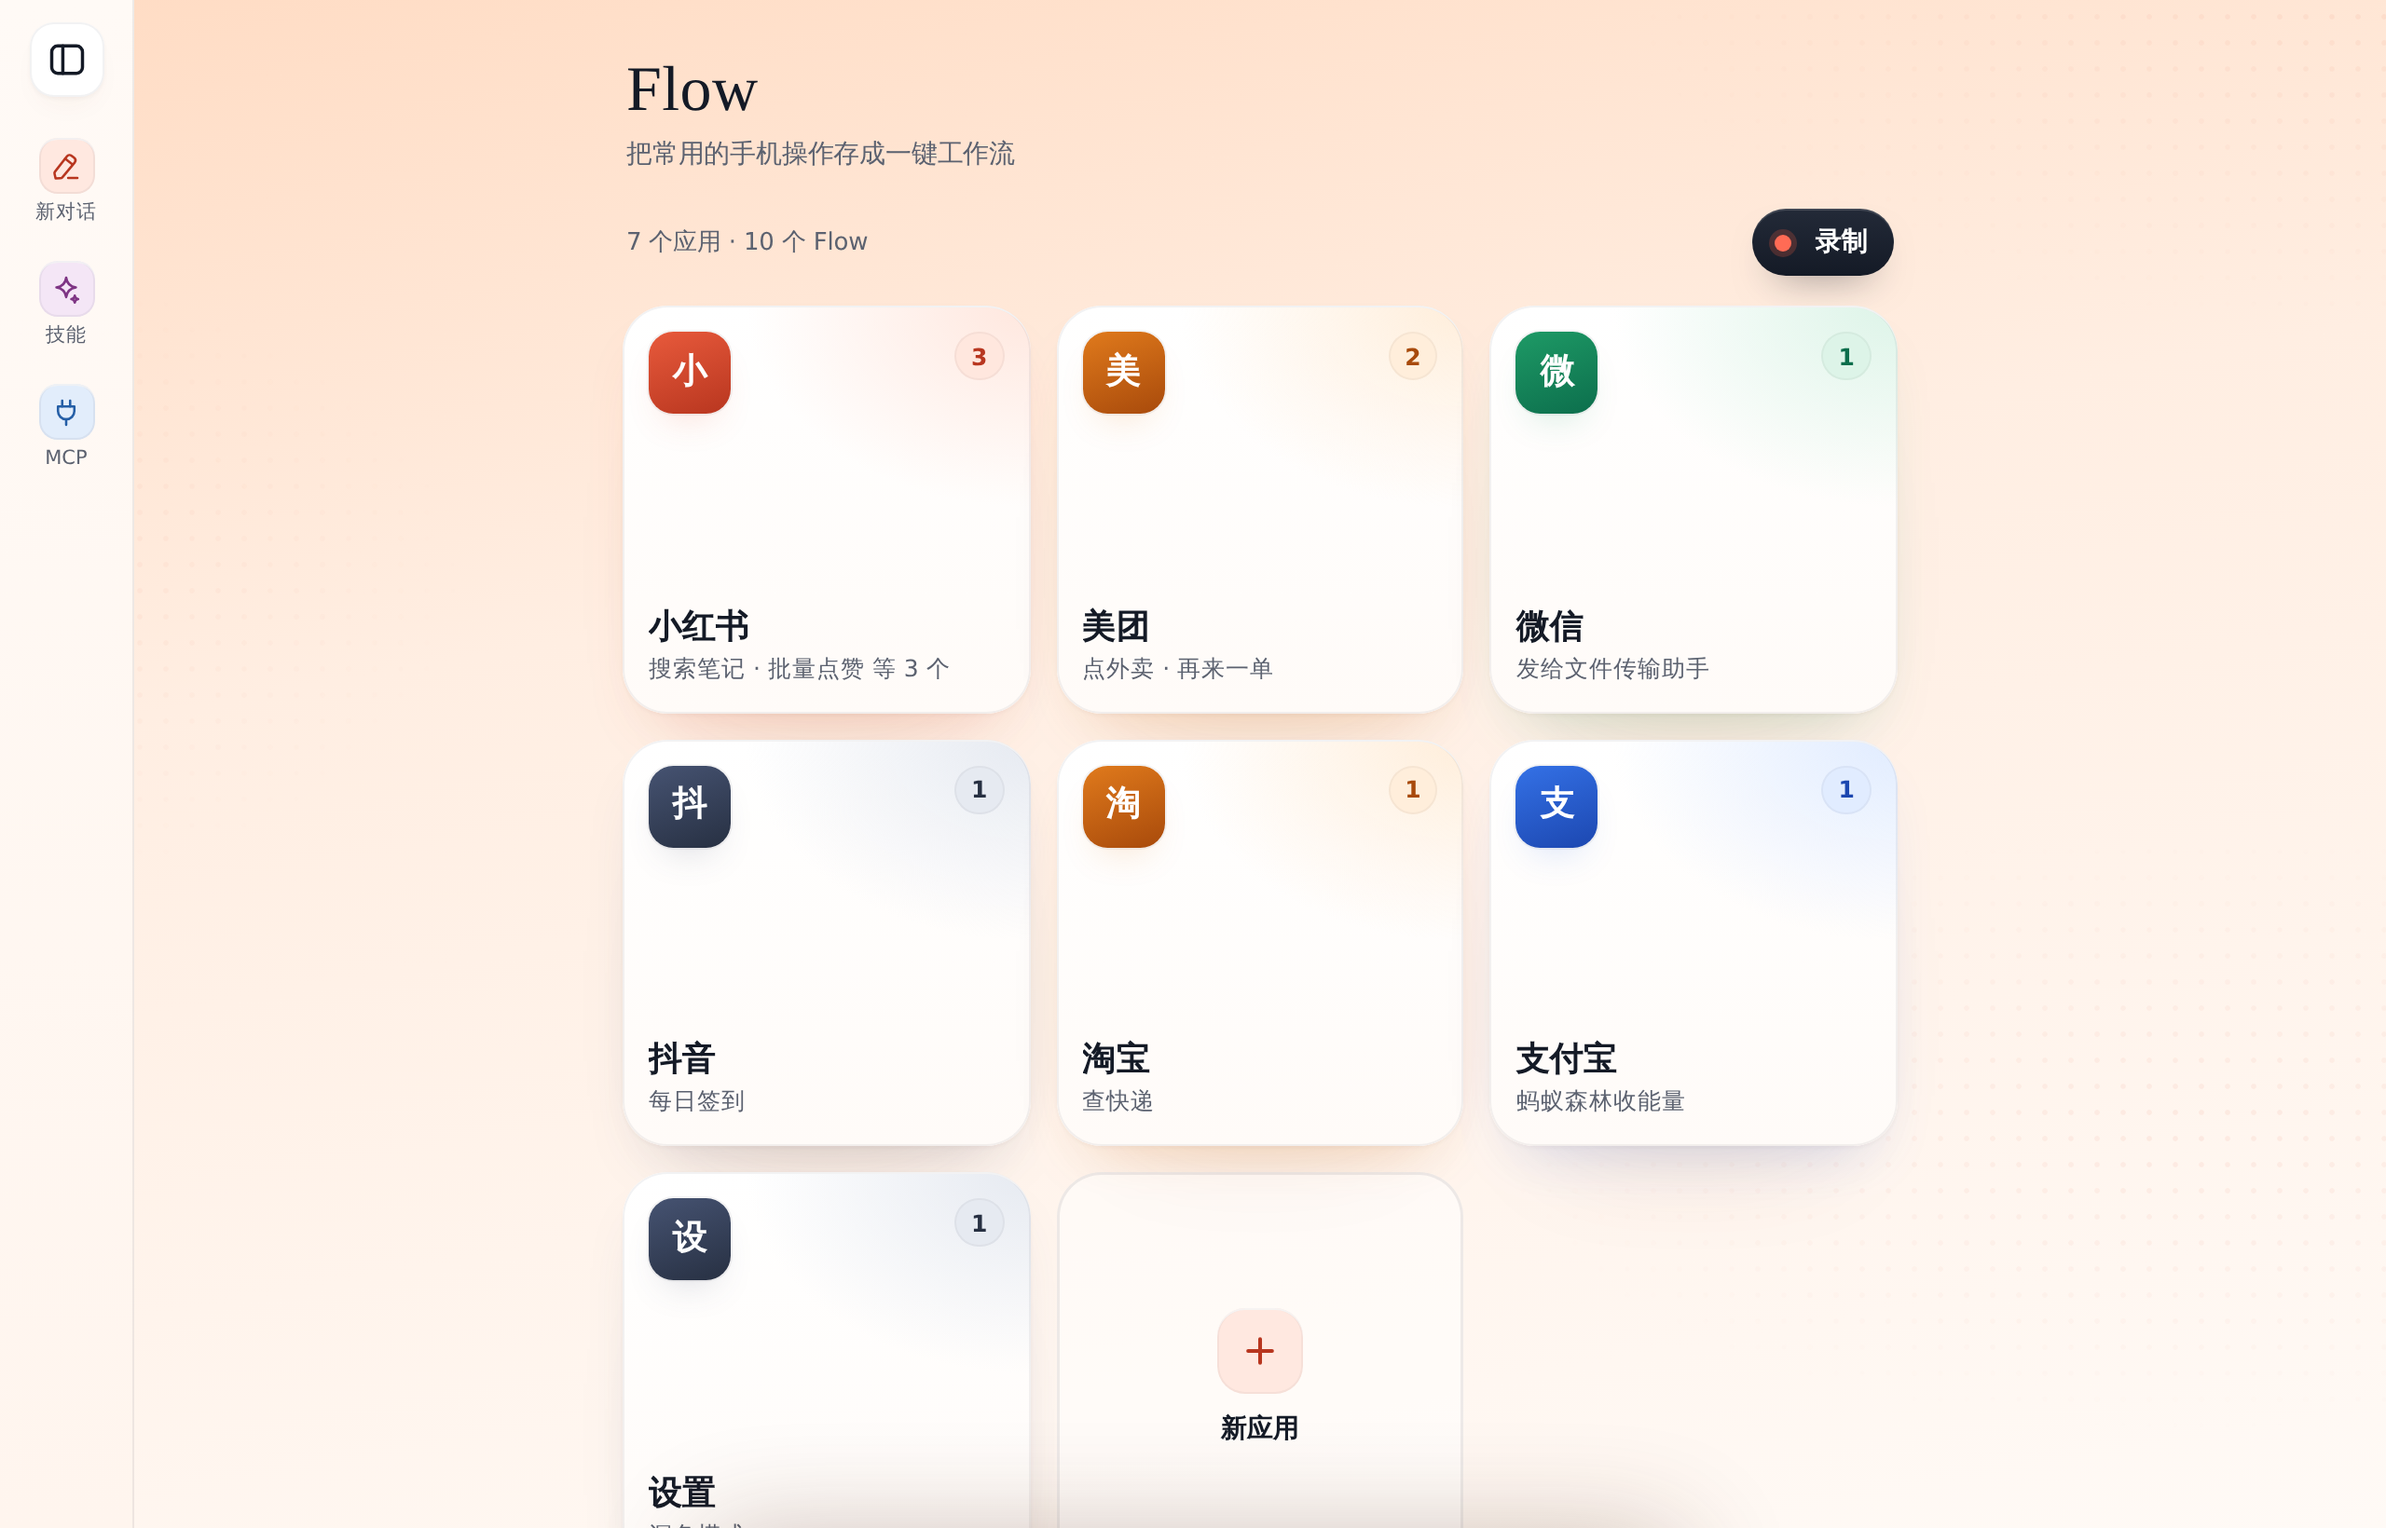
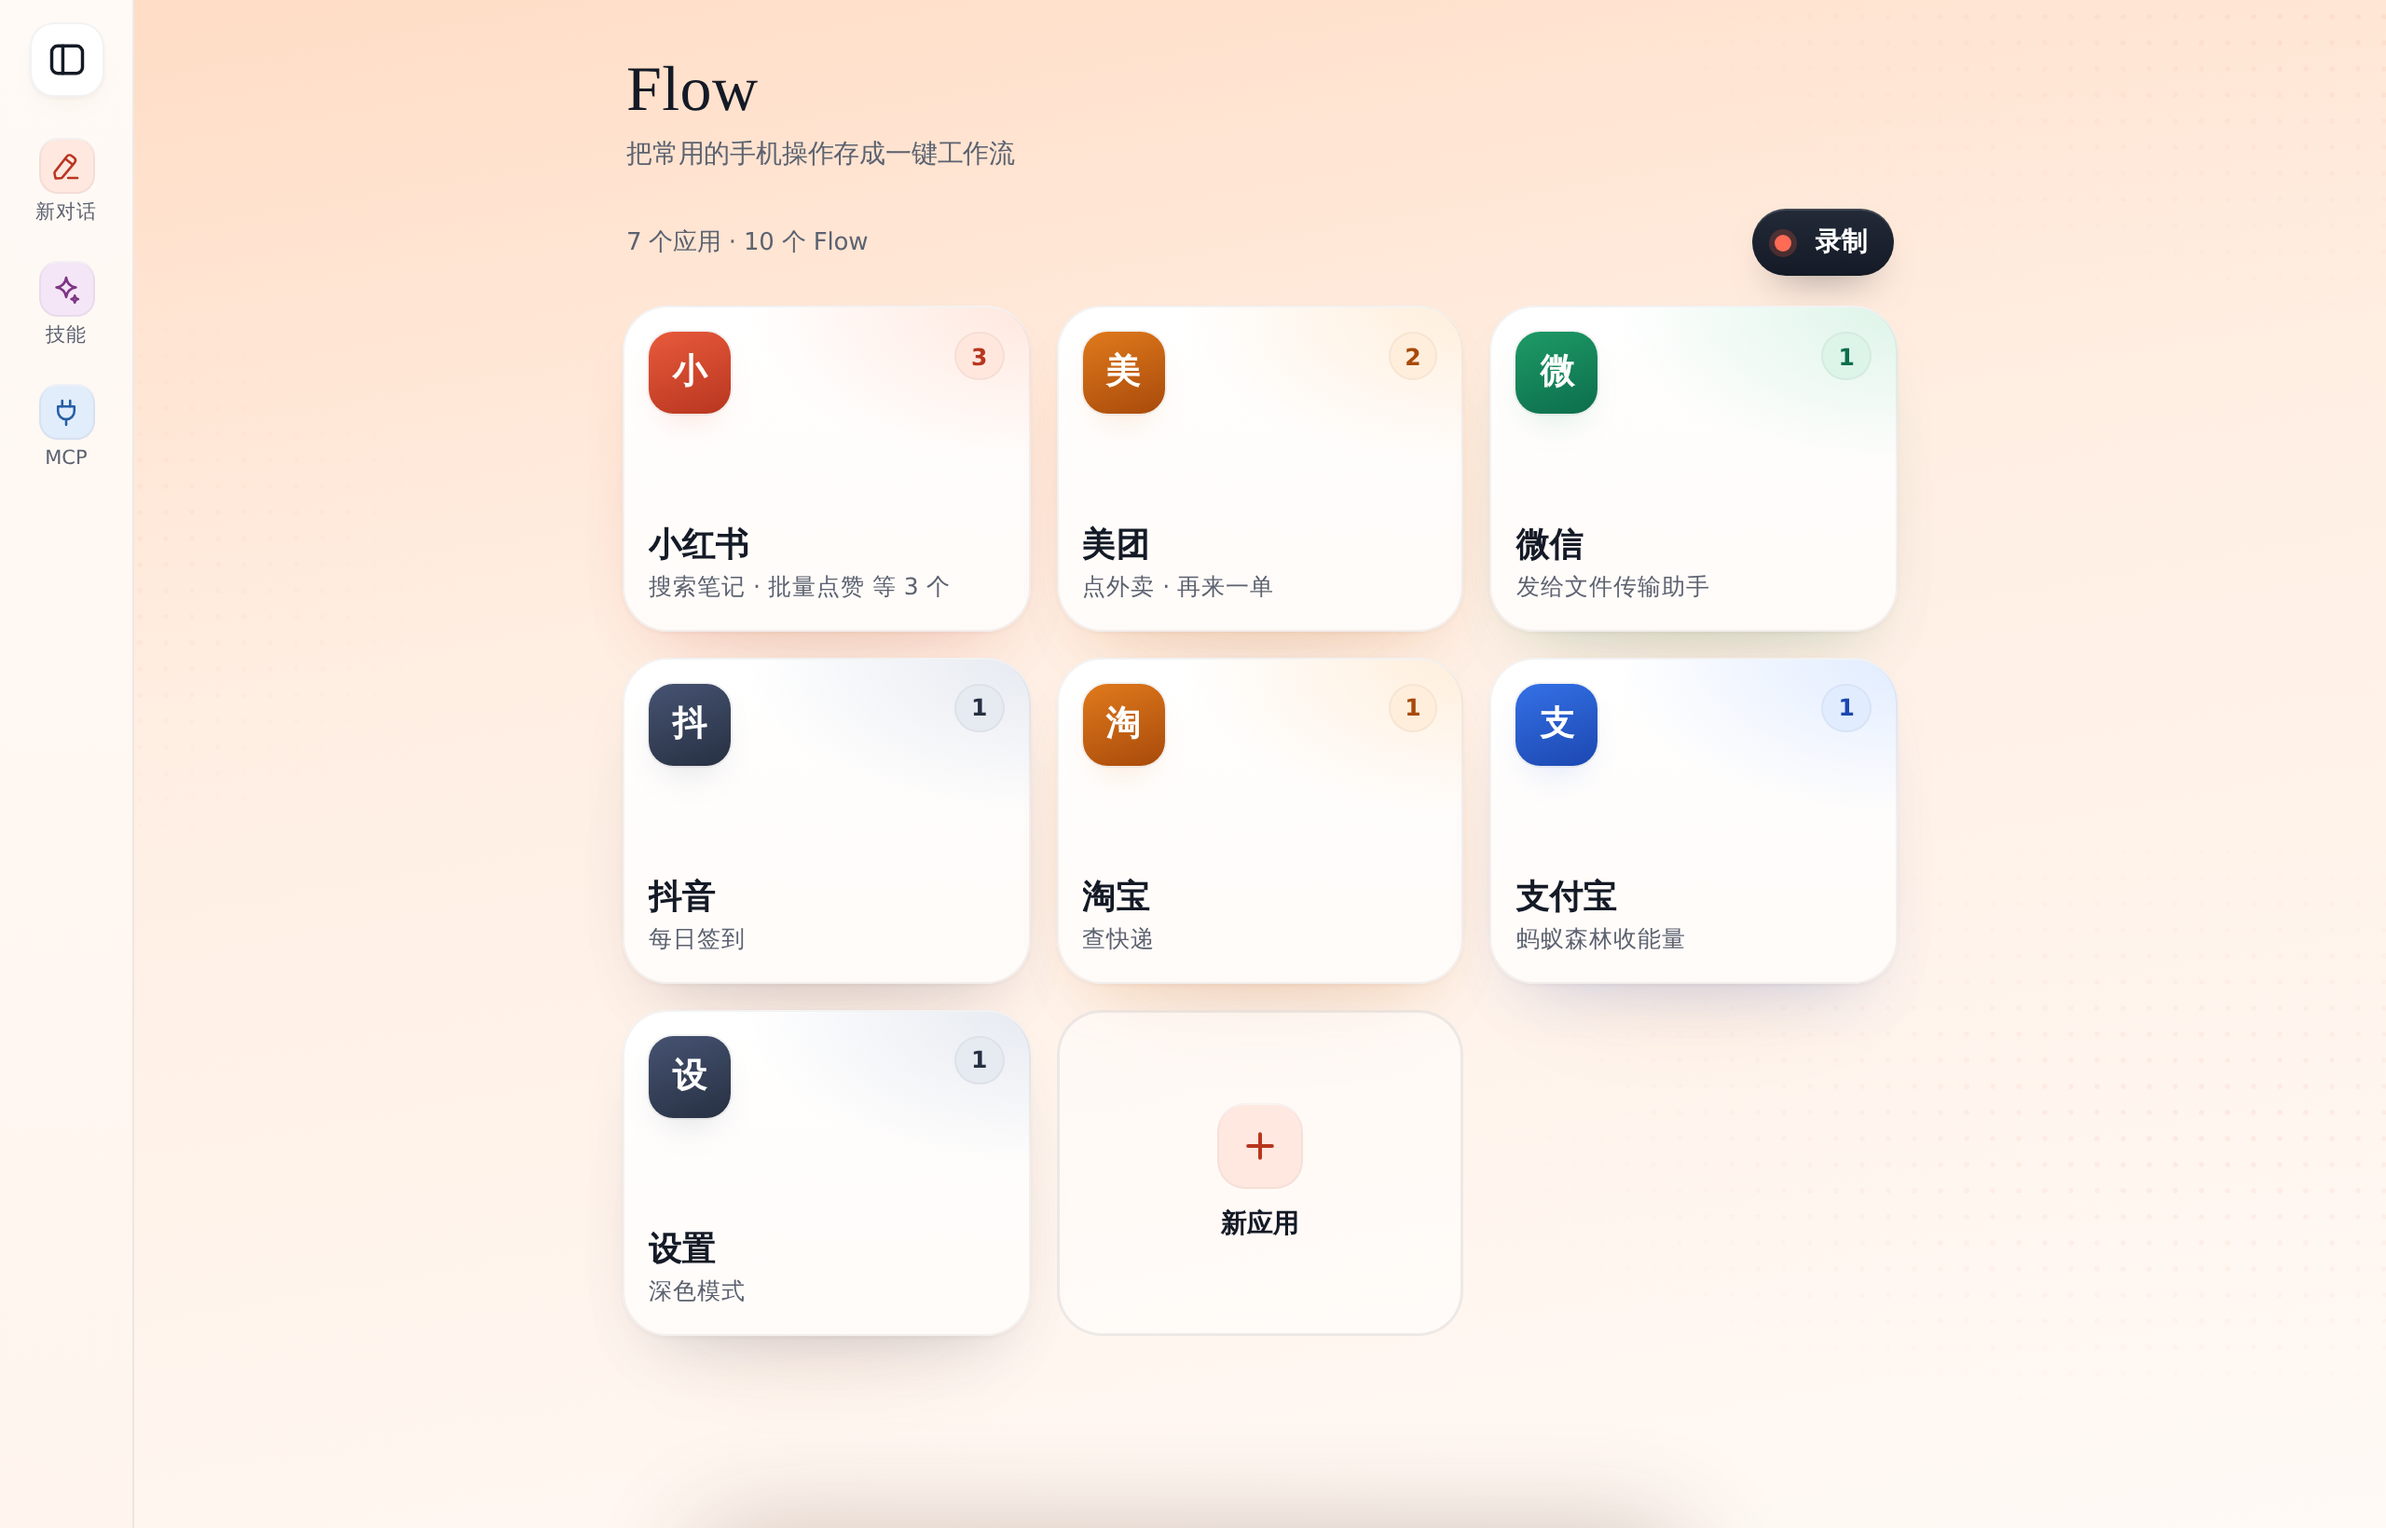
v0.18: Riffs 风格界面重做、侧栏折叠即图标栏、版本 0.18.0、PLAN v0.18 章节、README 署名、design/v18 截图

Changed region(s): [[0.25, 0.3421, 0.8125, 0.9018], [0.25, 0.964, 0.3125, 1.0], [0.5, 0.9329, 0.5312, 0.964]]

diff --git a/PLAN.md b/PLAN.md
@@ -1,5 +1,18 @@
 # 栖语 Lumi v0.7 改动计划（交接文档）
 
+## v0.18（2026-11-18，分支 v017-flow，本地提交、未 push）
+用户反馈：Flow 应用卡太丑（饱和多色 mesh 渐变 + 颗粒 + 白字）。参考 Figma Community「Riffs」重做，其他不好看的界面一起改；侧栏行为澄清：折叠态就是侧栏的关闭态。
+
+- **设计语言**（`src/index.css` 末尾「v0.18 设计语言」一层，覆盖前面各版本的样式；参考资料见 README 致谢，没有复制任何素材）：浅色实底卡片 + 每张卡只有一个强调色（右上角同色淡光晕、图标块、数量徽标、阴影光晕）；层次靠 1px 发丝描边 + 顶部 1px 高光 + 大而柔的扩散阴影；面板圆角 16–26px，图标放在小 squircle 里，选中态是白色胶囊；标题中粗无衬线、说明文字灰 `#5c6270`；按下用短弹簧（`--spring-s`）。保留暖色浅主题（珊瑚 `#e0583e`、墨 `#141a26`、衬线大标题），没做暗色便当版。
+- **Flow 卡片**：`appicon.ts` 的 `tint()` 返回 `cardBg`（近白单方向渐变 + 色族 soft 光晕）、`icon`（无图标时占位的单色渐变）、`ink`（色族 deep）；新增 `riffVars()` 把 `--acc / --acc-deep / --acc-soft / --glow` 写到卡上。应用卡、应用头卡、Flow 卡、编辑页头卡都用 `.riff`（`.mesh` 不再使用）。同一应用的 Flow 卡统一用该应用的强调色（不再按序号换色相）。Flow 卡：左上图标块、右上「更多」，名称最多两行，底部一行说明 + 播放键（播放键从顶部移到底部，360px 下不再挤）。桌面卡片比例 5:4，避免大片空白。
+- **其他界面**：`GlassIcon` 从「彩色底 + 磨砂玻璃两层」改成单个色调 squircle + 深色线条图标（侧栏、我的、设置、AI 优化卡等全部跟着变）；我的 / 设置列表、套餐卡、模式面板、添加步骤 / 类 / 参数弹窗、输入框（页面底上白色发丝边，卡片 / 弹窗里浅灰填充，聚焦珊瑚环）、首页输入卡、对话输入条、chip、按钮（墨色渐变胶囊、珊瑚按钮改用 `#cc4a2e→#c13f27` 保证白字 ≥4.5:1）、Flow 编辑器时间线（白卡 + 发丝边、节点 squircle）、运行明细；首页最近对话文件夹前盖改成奶白磨砂 + 深色标题（原来白字压在珊瑚色上对比度不够）。
+- **对比度**：`node scripts/contrast.mjs` 检查墨字 / 灰字在白卡、页面底、弹窗上，徽标 deep 字在 soft 底上，白字在 deep 色 / 按钮上，全部 ≥4.5:1（最低 4.58，按钮渐变顶端）。`--label2` 从半透明改成实色 `#5c6270`。
+- **侧栏**：折叠态就是关闭态——关上后左侧永远是一条图标栏（新对话 / 技能 / MCP + 顶部展开按钮），去掉了完全隐藏的抽屉、页面头和对话顶栏里的单独侧栏按钮。展开：桌面推开内容显示完整侧栏（288px）；手机是盖在内容上的抽屉（宽 `min(304px, 100vw-52px)`，右侧圆角 + 遮罩），点遮罩、选完条目或点折叠按钮回到图标栏。状态存 `localStorage 'lumi.sideMini'`（'1' 折叠，'0' 展开；没有记录时桌面默认展开、手机默认折叠）。内容区 `left` 始终等于图标栏宽（手机 64px、桌面 72px），不会被盖住；截图脚本里量了 `.side` 右边和 `.main` 左边。
+- **版本**：0.18.0（versionCode 19），设置页页脚 v0.18。
+- **截图**：`python3 scripts/v18_shots.py [phone|desktop]` → `design/v18/`（390px 和 360px 各一套：首页、图标栏、展开侧栏、对话、模式面板、Flow 网格、应用页、编辑器、添加步骤、类、试运行、我的、设置；桌面：图标栏、展开侧栏 + Flow 网格、折叠 + Flow 网格、应用页、编辑器），每张检查横向溢出，全部无溢出、无页面报错。`scripts/v17_shots.py` 依赖旧的页面侧栏按钮，已过时。
+- **测试**：`npm run build` 通过；`node scripts/flow-test.mts` 33 项通过；`scripts/flowvm-test/run.sh` 30 项通过（JDK 21）。功能没改，只改了样式和侧栏开关逻辑。
+- **未做**：push、真机验证（Android WebView 上的阴影 / 动画没看过）。
+
 ## v0.17（2026-11-18，分支 v017-flow，未 push）
 用户：以 Flow 为主的新版本；官网 platform.qigai.tech（/keys 获取 Key、/upgrade 升级会员、/feedback 反馈），App 内入口都指过去；Flow 逻辑（if/else、for、while、do-while）验证端到端可用并修 bug，加 point / struct / class（字段 + 方法，方法体是子流程，new 实例化，obj.field，obj.method() 绑定 this）；AI 视觉步明显变快（目标约 1 秒一步）；Flow 卡片配色重做；侧栏可折叠，手机也要。
 
